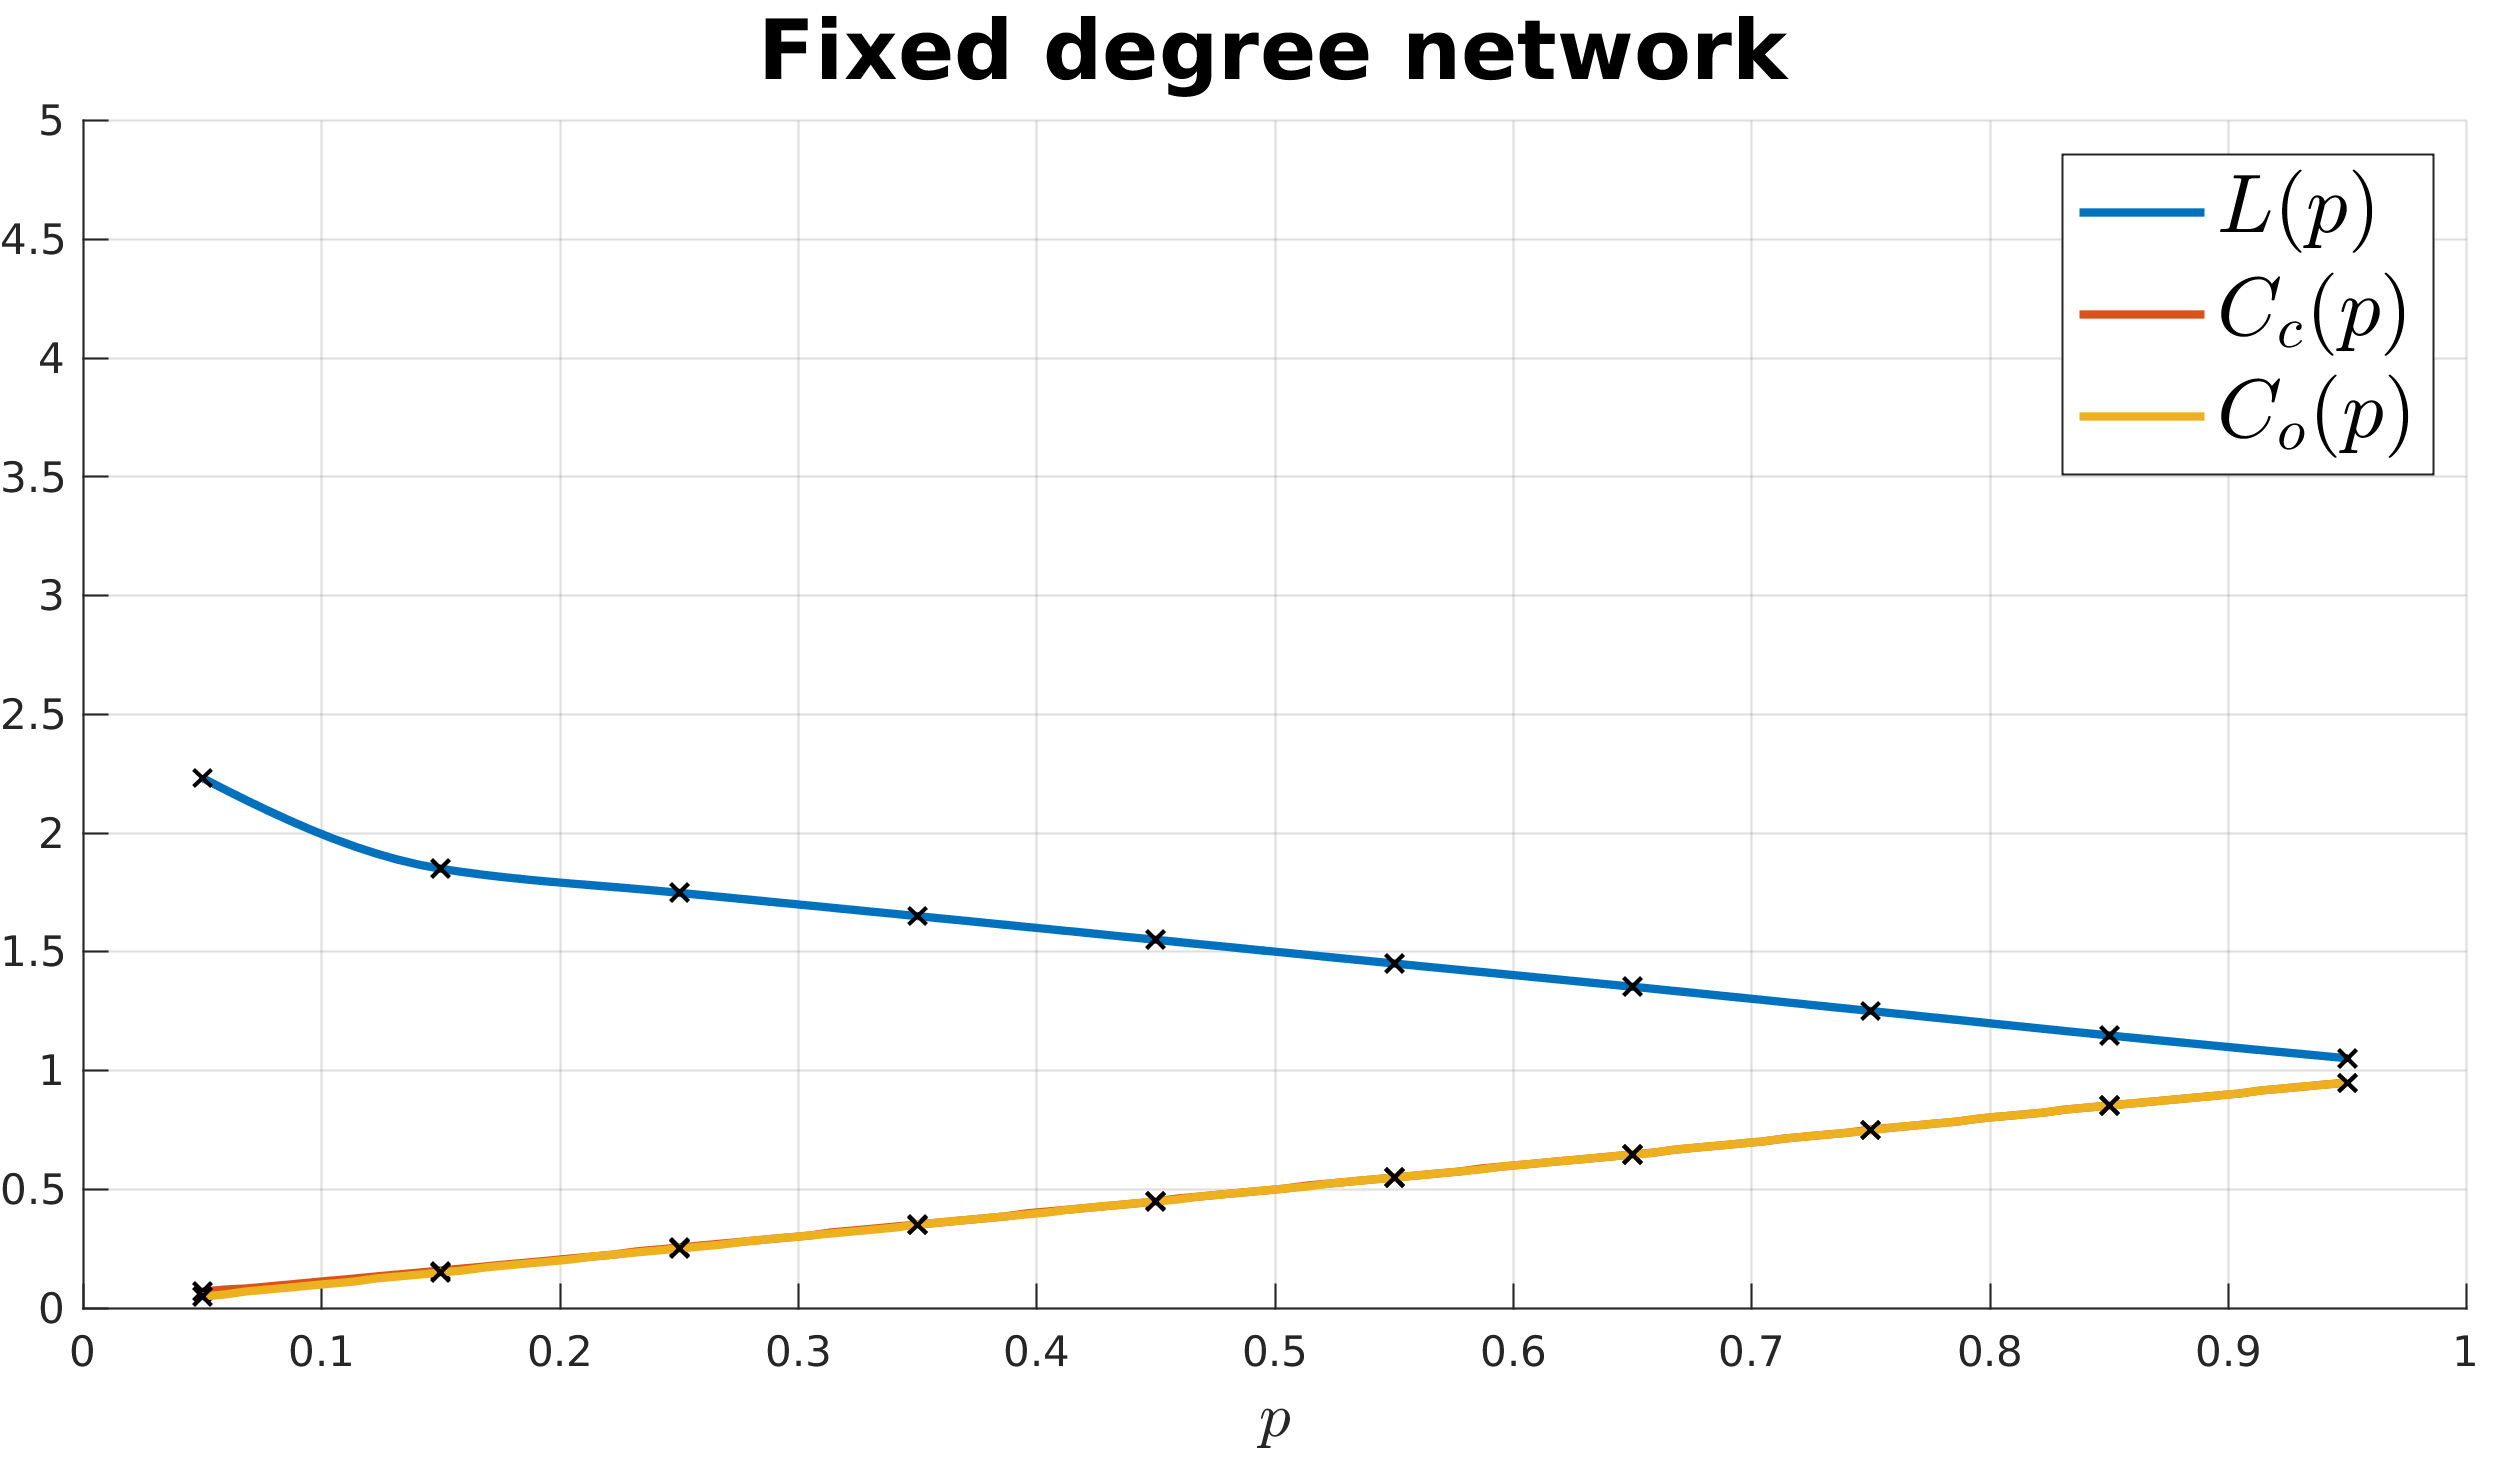
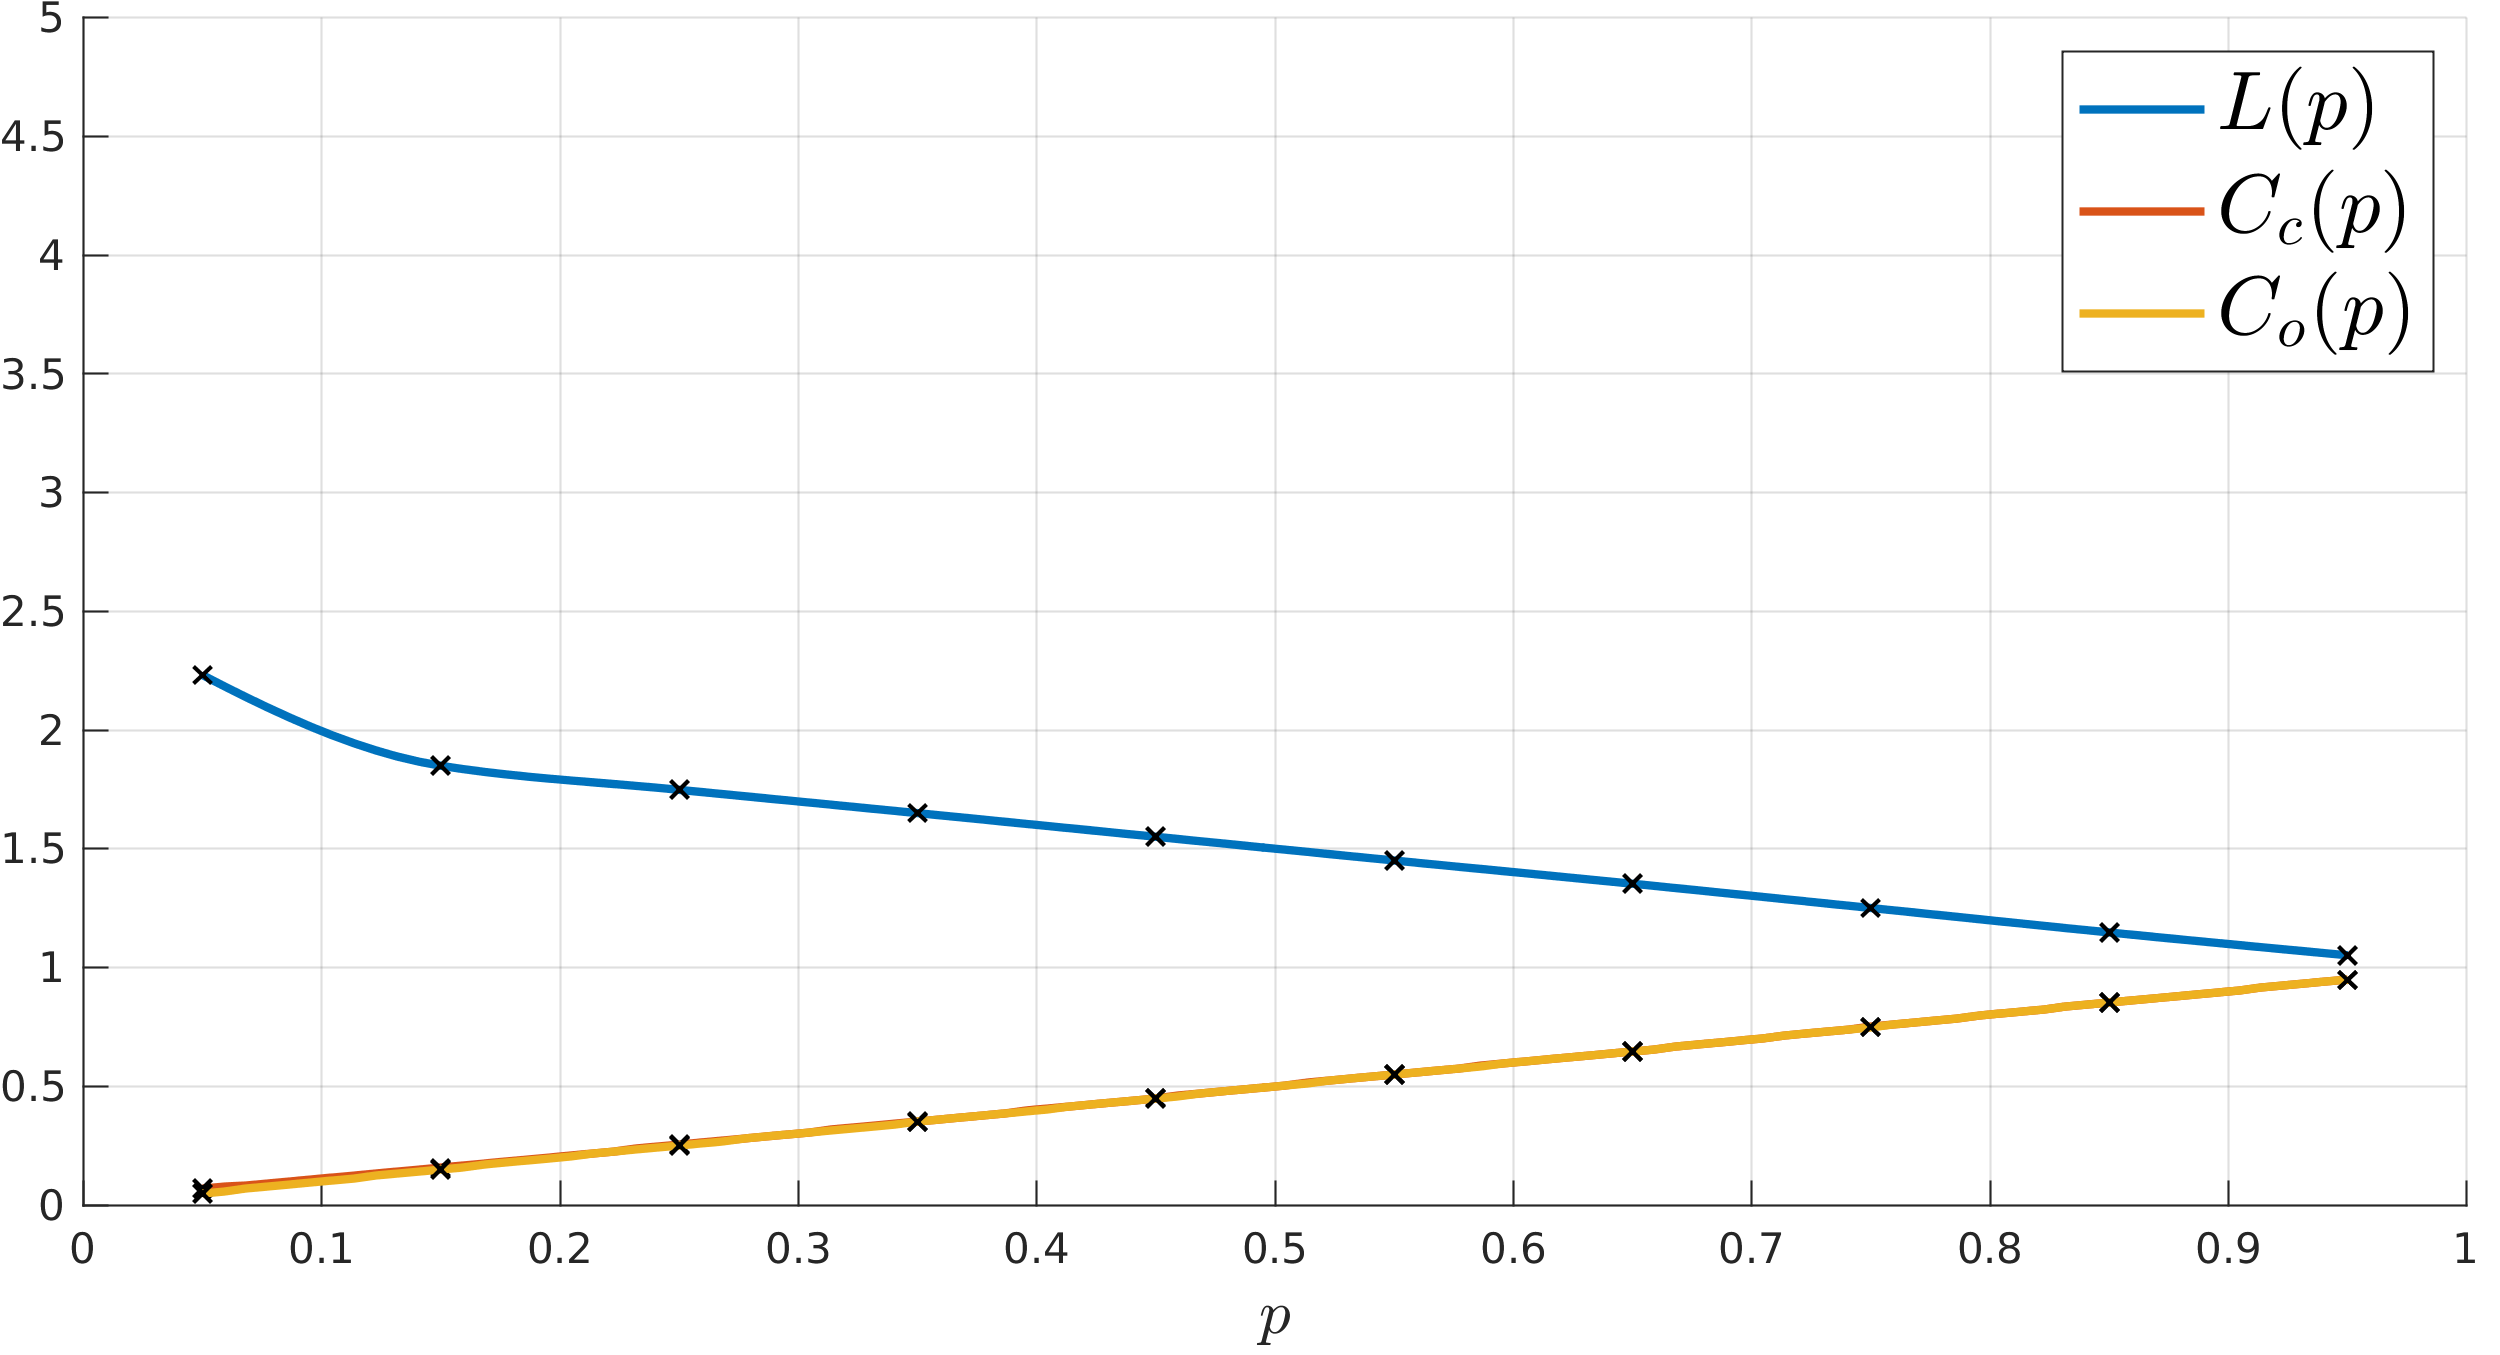
removed titles and solved error in the testscript

diff --git a/Tests/networkproperties.m b/Tests/networkproperties.m
@@ -73,7 +73,7 @@ Ls(Ls == Inf) = 1.0e2;
 netpsinterp = linspace(min(netps), max(netps), nsamples^2);
 
 f_random = figure('Renderer', 'painters', 'Position', [50 800 600 350]); grid on; hold on;
-ylim([0, 5]); title('Fixed degree network', 'FontSize', 20)
+ylim([0, 5]); title('Random network', 'FontSize', 20)
 
 plot(netpsinterp, interp1(netps,Ls,netpsinterp,'pchip'), 'LineWidth', 2)
 scatter(netps, Ls, 'xk', 'HandleVisibility','off')
